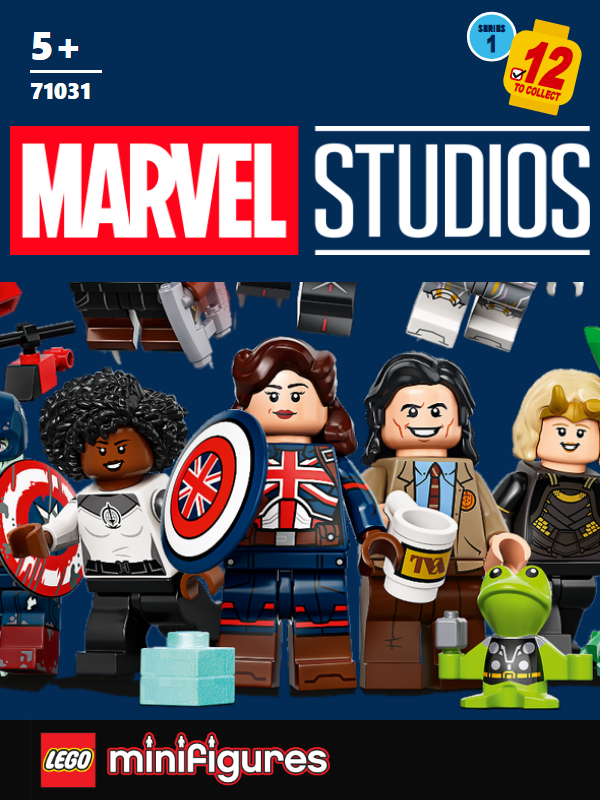
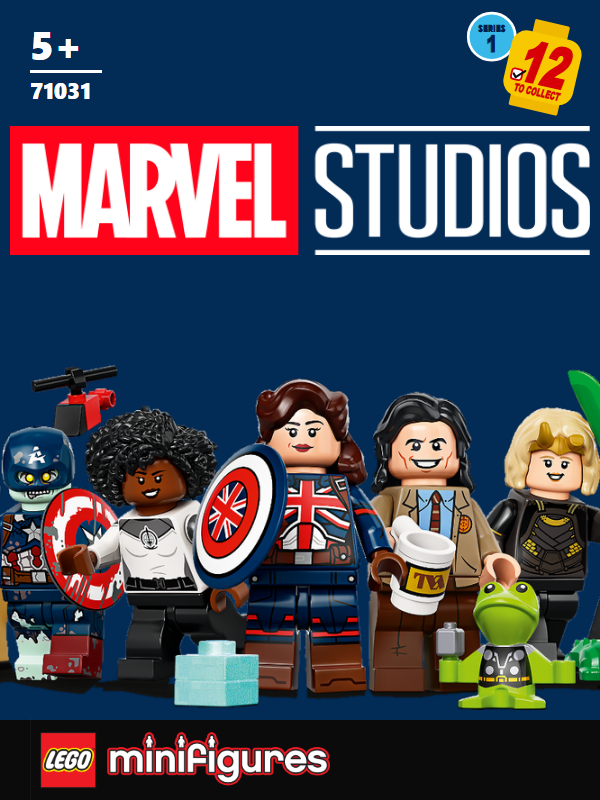
fix(V2-11): clean crowd cut-outs, gap-snapped zoom, 71031 without flyers
White holes between figures removed, white edge spill unmixed, zoom edges
snap to the least-covered column, 71031 keeps only the ground crowd.
Zoom options A (1.7:1) and B (full) on 8683, 71031, 8831 for the owner.

diff --git a/scripts/prep_group.py b/scripts/prep_group.py
@@ -32,8 +32,9 @@ PREP = {
     "71007": ("71007-1.jpg", None, "white", None),
     "71017": ("71017-1.png", (0, 0.08, 1, 0.455), "white", None),
     "71023": ("71023-1.jpg", (0, 0.2, 1, 0.9), "grabcut", None),
-    # 71031: the previous card image (already transparent), zoomed in on the crowd below the flying heroes.
-    "71031": ("71031-0.png", None, "alpha", (0, 0.45, 1, 1)),
+    # 71031: the previous card image (already transparent); only the largest part (the ground crowd) is kept, which
+    # drops the flying heroes above it.
+    "71031": ("71031-0.png", None, "alpha", None),
 }
 
 
@@ -46,13 +47,41 @@ def keep_big(fg, share=0.002):
     return np.isin(labels, 1 + np.flatnonzero(sizes >= share * labels.size))
 
 
-def white_mask(rgb, white_min=226, spread=22):
-    """Foreground = everything not in the near-white region connected to the image border."""
-    white = (rgb.min(axis=2) >= white_min) & (rgb.max(axis=2).astype(int) - rgb.min(axis=2) <= spread)
+def white_mask(rgb, white_min=226, spread=22, hole_min=250, hole_share=0.0004):
+    """Foreground = not background. Background = near-white region touching the border, plus enclosed pure-white
+    holes between figures above hole_share of the image (small white highlights on figures stay)."""
+    lo, hi = rgb.min(axis=2), rgb.max(axis=2).astype(int)
+    white = (lo >= white_min) & (hi - lo <= spread)
     labels, _ = ndimage.label(white)
     edge = np.unique(np.concatenate([labels[0], labels[-1], labels[:, 0], labels[:, -1]]))
     bg = np.isin(labels, edge[edge > 0])
+    pure = (lo >= hole_min) & (hi - lo <= 8) & ~bg
+    plabels, n = ndimage.label(pure)
+    if n:
+        sizes = ndimage.sum(np.ones_like(plabels), plabels, range(1, n + 1))
+        holes = np.isin(plabels, 1 + np.flatnonzero(sizes >= hole_share * plabels.size))
+        bg |= ndimage.binary_dilation(holes, iterations=1) & white
     return ndimage.binary_opening(~bg, iterations=1)
+
+
+def unmix_white(rgb, fg, band=2):
+    """Soft alpha on the edge band from whiteness, with the white spill removed from the colour (no white halo)."""
+    a = np.where(fg, 1.0, 0.0)
+    edge = fg & ~ndimage.binary_erosion(fg, iterations=band)
+    c = rgb.astype(float)
+    soft = (255 - c.min(axis=2)) / 255 * 2.5          # light fringe pixels become see-through
+    a[edge] = np.clip(soft[edge], 0, 1)
+    k = np.maximum(a, 1e-3)[..., None]
+    out = np.clip(255 - (255 - c) / k, 0, 255)
+    out[~edge] = c[~edge]
+    return out.astype(np.uint8), (a * 255).astype(np.uint8)
+
+
+def gap_cut(alpha, x, window):
+    """Column near x (within window) with the least figure coverage, so a crop edge falls between figures."""
+    cover = (alpha > 127).sum(axis=0)
+    lo, hi = max(0, x - window), min(len(cover) - 1, x + window)
+    return lo + int(np.argmin(cover[lo:hi + 1]))
 
 
 def grabcut_mask(rgb, border=0.03, iterations=6):
@@ -67,8 +96,8 @@ def grabcut_mask(rgb, border=0.03, iterations=6):
 
 
 # Crowds wider than this are centre-cropped to it, so a big set shows part of the crowd with larger figures, as the
-# owner's references do (71033 is 1.48, 71039 1.42). SOURCE: OWNER-SUPPLIED rule 2026-11-09, ratio by eye.
-ZOOM_ASPECT = 1.4
+# owner's references do (71009 is 1.64, 71051 1.62). SOURCE: OWNER-SUPPLIED rule 2026-11-09, ratio by eye.
+ZOOM_ASPECT = 1.7
 # Small sets keep every figure: Team GB has 9.
 NO_ZOOM = {"8909"}
 
@@ -87,19 +116,27 @@ def prep(sid):
     rgb = np.asarray(im)
     if method == "alpha":
         fg = np.asarray(src)[:, :, 3] > 127
+        labels, n = ndimage.label(fg)
+        if n > 1:                                          # keep the largest part only
+            sizes = ndimage.sum(fg, labels, range(1, n + 1))
+            fg = labels == 1 + int(np.argmax(sizes))
+        out = src.copy()
+        out.putalpha(Image.fromarray((fg * 255).astype(np.uint8)).filter(ImageFilter.GaussianBlur(0.6)))
     else:
         fg = keep_big(white_mask(rgb) if method == "white" else grabcut_mask(rgb))
-    solid = Image.fromarray((fg * 255).astype(np.uint8))
-    out = im.convert("RGBA")
-    out.putalpha(solid.filter(ImageFilter.GaussianBlur(0.8)))
-    out = out.crop(solid.getbbox())
+        colour, alpha = unmix_white(rgb, fg) if method == "white" else (rgb, (fg * 255).astype(np.uint8))
+        out = Image.fromarray(colour).convert("RGBA")
+        out.putalpha(Image.fromarray(alpha).filter(ImageFilter.GaussianBlur(0.5)))
+    out = out.crop(Image.fromarray((fg * 255).astype(np.uint8)).getbbox())
     if zoom:
         out = out.crop(frac_box(out.size, zoom))
         out = out.crop(out.split()[-1].getbbox())
     w, h = out.size
     if w / h > ZOOM_ASPECT and sid not in NO_ZOOM:
+        a = np.asarray(out.split()[-1])
         x0 = round((w - ZOOM_ASPECT * h) / 2)
-        out = out.crop((x0, 0, w - x0, h))
+        win = round(0.08 * w)
+        out = out.crop((gap_cut(a, x0, win), 0, gap_cut(a, w - x0, win), h))
         out = out.crop(out.split()[-1].getbbox())
     out.save(OUT / f"{sid}.png", optimize=True)
     return sid, out.size
